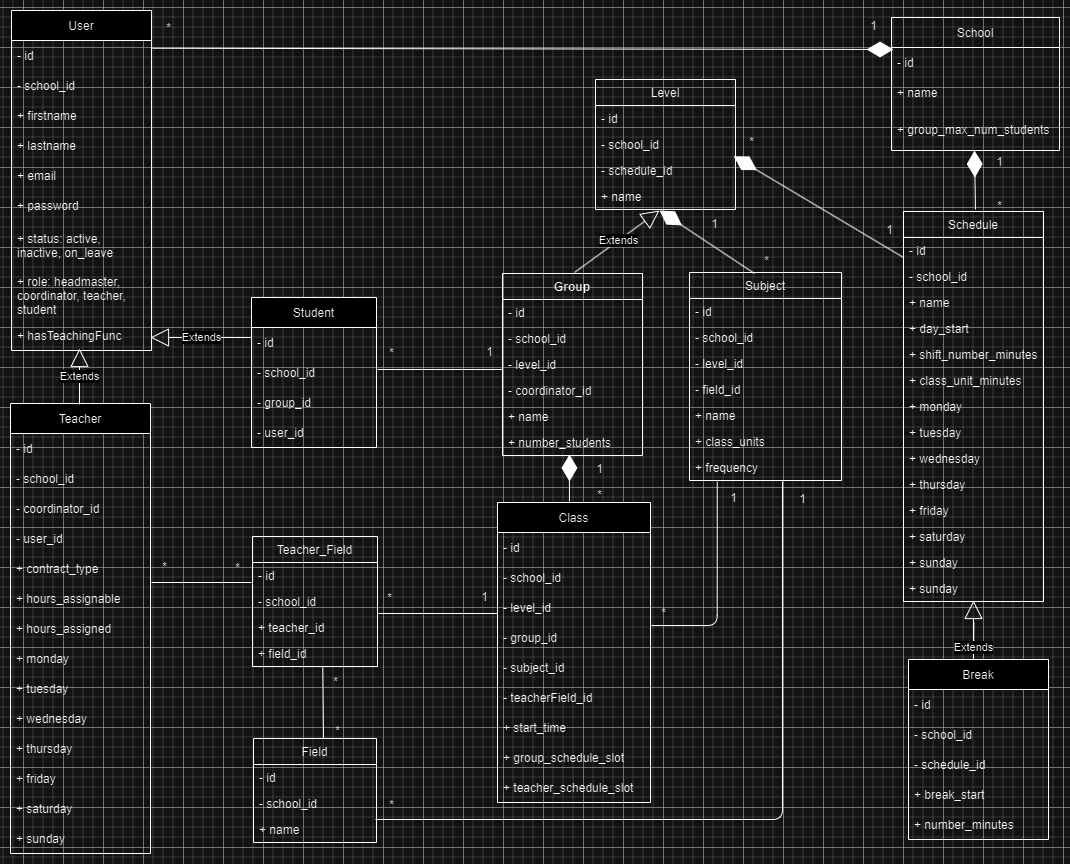
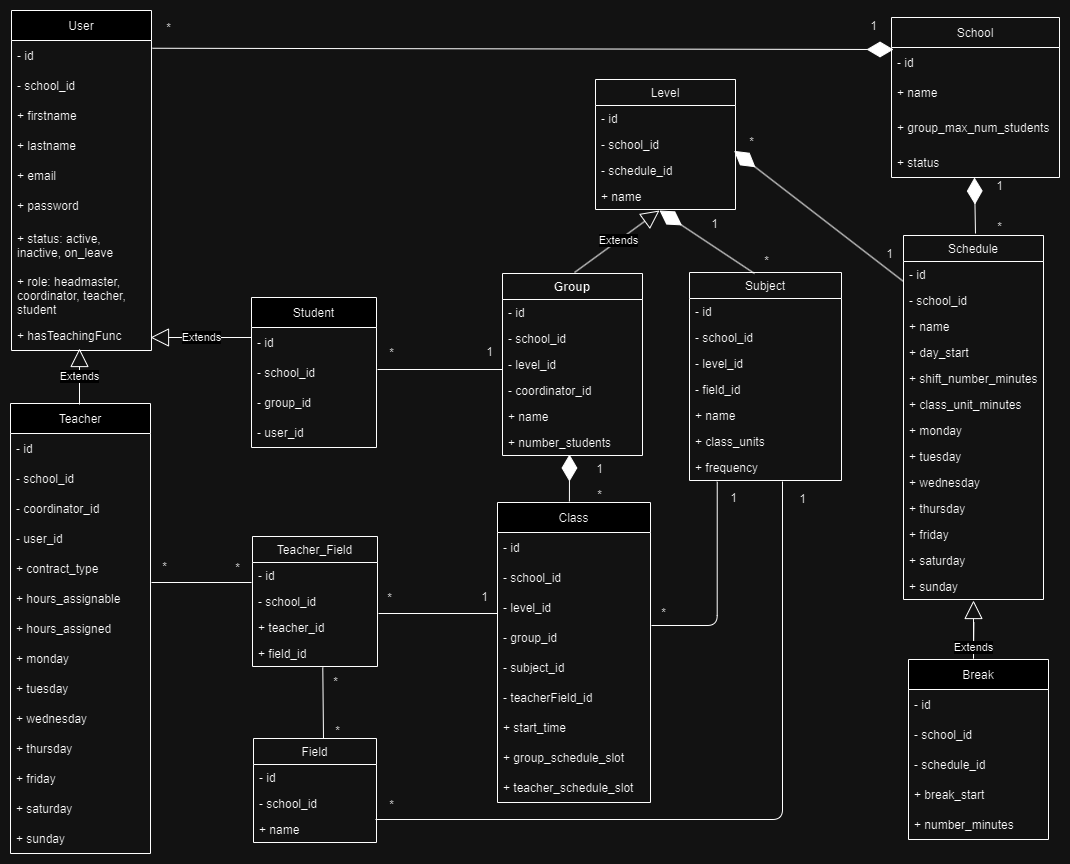
refactor: add status to school entity

diff --git a/src/modules/schools/__test__/school.test.ts b/src/modules/schools/__test__/school.test.ts
@@ -36,22 +36,27 @@ describe("RESOURCE => School", () => {
   const newSchool = {
     name: "school 001",
     groupMaxNumStudents: 40,
+    status: "active",
   };
   const newSchoolMissingValues = {
     nam: "school 001",
     groupMaxNumStudent: 40,
+    statu: "active",
   };
   const newSchoolEmptyValues = {
     name: "",
     groupMaxNumStudents: "",
+    status: "",
   };
   const newSchoolNotValidDataTypes = {
     name: 1234567890,
     groupMaxNumStudents: "hello",
+    status: 123456789,
   };
   const newSchoolWrongLengthValues = {
     name: "Lorem ipsum dolor sit amet consectetur adipisicing elit Maiores laborum aspernatur similique sequi am",
     groupMaxNumStudents: 1234567890,
+    status: "active",
   };
 
   /* payloads */
@@ -59,6 +64,7 @@ describe("RESOURCE => School", () => {
     _id: validMockSchoolId,
     name: "school 001",
     groupMaxNumStudents: 40,
+    status: "active",
   };
   const schoolNullPayload = null;
   const schoolsPayload = [
@@ -66,16 +72,19 @@ describe("RESOURCE => School", () => {
       _id: new Types.ObjectId().toString(),
       name: "school 001",
       groupMaxNumStudents: 40,
+      status: "active",
     },
     {
       _id: new Types.ObjectId().toString(),
       name: "school 002",
       groupMaxNumStudents: 40,
+      status: "active",
     },
     {
       _id: new Types.ObjectId().toString(),
       name: "school 003",
       groupMaxNumStudents: 40,
+      status: "inactive",
     },
   ];
   const schoolsNullPayload: School[] = [];
@@ -107,6 +116,11 @@ describe("RESOURCE => School", () => {
             location: "body",
             msg: "Please add the group max number of students",
             param: "groupMaxNumStudents",
+          },
+          {
+            location: "body",
+            msg: "Please add the school's current status",
+            param: "status",
           },
         ]);
 
@@ -148,6 +162,12 @@ describe("RESOURCE => School", () => {
             param: "groupMaxNumStudents",
             value: "",
           },
+          {
+            location: "body",
+            msg: "The status field is empty",
+            param: "status",
+            value: "",
+          },
         ]);
         expect(statusCode).toBe(400);
         expect(duplicateSchoolName).not.toHaveBeenCalled();
@@ -186,6 +206,12 @@ describe("RESOURCE => School", () => {
             msg: "group max number of students value is not valid",
             param: "groupMaxNumStudents",
             value: "hello",
+          },
+          {
+            location: "body",
+            msg: "status is not valid",
+            param: "status",
+            value: 123456789,
           },
         ]);
         expect(statusCode).toBe(400);
@@ -245,7 +271,7 @@ describe("RESOURCE => School", () => {
           schoolPayload,
           "findSchoolByProperty"
         );
-        const insertSchool = mockService(schoolPayload, "insertSchool");
+        const insertSchool = mockService(schoolNullPayload, "insertSchool");
 
         // api call
         const { statusCode, body } = await supertest(server)
@@ -362,16 +388,19 @@ describe("RESOURCE => School", () => {
               _id: expect.any(String),
               name: "school 001",
               groupMaxNumStudents: 40,
+              status: "active",
             },
             {
               _id: expect.any(String),
               name: "school 002",
               groupMaxNumStudents: 40,
+              status: "active",
             },
             {
               _id: expect.any(String),
               name: "school 003",
               groupMaxNumStudents: 40,
+              status: "inactive",
             },
           ]);
           expect(statusCode).toBe(200);
@@ -445,6 +474,7 @@ describe("RESOURCE => School", () => {
               _id: validMockSchoolId,
               name: "school 001",
               groupMaxNumStudents: 40,
+              status: "active",
             });
             expect(statusCode).toBe(200);
             expect(findSchool).toHaveBeenCalled();
@@ -483,6 +513,11 @@ describe("RESOURCE => School", () => {
               location: "body",
               msg: "Please add the group max number of students",
               param: "groupMaxNumStudents",
+            },
+            {
+              location: "body",
+              msg: "Please add the school's current status",
+              param: "status",
             },
           ]);
           expect(statusCode).toBe(400);
@@ -524,6 +559,12 @@ describe("RESOURCE => School", () => {
               location: "body",
               msg: "The group max number of students field is empty",
               param: "groupMaxNumStudents",
+              value: "",
+            },
+            {
+              location: "body",
+              msg: "The status field is empty",
+              param: "status",
               value: "",
             },
           ]);
@@ -573,6 +614,12 @@ describe("RESOURCE => School", () => {
               msg: "group max number of students value is not valid",
               param: "groupMaxNumStudents",
               value: "hello",
+            },
+            {
+              location: "body",
+              msg: "status is not valid",
+              param: "status",
+              value: 123456789,
             },
           ]);
           expect(statusCode).toBe(400);

diff --git a/src/modules/schools/schoolsController.ts b/src/modules/schools/schoolsController.ts
@@ -19,7 +19,7 @@ import {
 // @fields: body {name:[string], groupMaxNumStudents: [number]}
 const createSchool = async ({ body }: Request, res: Response) => {
   /* destructure the fields */
-  const { name, groupMaxNumStudents } = body;
+  const { name, groupMaxNumStudents, status } = body;
   /* find if the school name already exists */
   const searchCriteria = { name };
   const fieldsToReturn = "-createdAt -updatedAt";
@@ -34,6 +34,7 @@ const createSchool = async ({ body }: Request, res: Response) => {
   const newSchool = {
     name: name,
     groupMaxNumStudents: groupMaxNumStudents,
+    status: status,
   };
   const schoolCreated = await insertSchool(newSchool);
   if (!schoolCreated) {
@@ -79,7 +80,7 @@ const getSchool = async ({ params }: Request, res: Response) => {
 const updateSchool = async ({ body, params }: Request, res: Response) => {
   /* destructure the fields*/
   const { id: schoolId } = params;
-  const { name, groupMaxNumStudents } = body;
+  const { name, groupMaxNumStudents, status } = body;
   /* check if there is a name duplicate that belongs to someone else */
   const searchCriteria = { name: name };
   const fieldsToReturn = "-createdAt -updatedAt";
@@ -91,6 +92,7 @@ const updateSchool = async ({ body, params }: Request, res: Response) => {
   const newSchool = {
     name: name,
     groupMaxNumStudents: groupMaxNumStudents,
+    status: status,
   };
   const schoolUpdated = await modifySchool(schoolId, newSchool);
   if (!schoolUpdated) {

diff --git a/src/modules/schools/schoolsValidator.ts b/src/modules/schools/schoolsValidator.ts
@@ -31,6 +31,21 @@ const validateCreateSchool = [
     .bail()
     .isLength({ min: 1, max: 9 })
     .withMessage("The start time must not exceed 9 digits"),
+  check("status")
+    .exists()
+    .withMessage("Please add the school's current status")
+    .bail()
+    .notEmpty()
+    .withMessage("The status field is empty")
+    .bail()
+    .isString()
+    .withMessage("status is not valid")
+    .bail()
+    .isIn(["active", "inactive"])
+    .withMessage("the status provided is not a valid option")
+    .blacklist("%,$")
+    .trim()
+    .escape(),
   (req: Request, res: Response, next: NextFunction) => {
     validateResult(req, res, next);
   },
@@ -91,6 +106,21 @@ const validateUpdateSchool = [
     .bail()
     .isLength({ min: 1, max: 9 })
     .withMessage("The start time must not exceed 9 digits"),
+  check("status")
+    .exists()
+    .withMessage("Please add the school's current status")
+    .bail()
+    .notEmpty()
+    .withMessage("The status field is empty")
+    .bail()
+    .isString()
+    .withMessage("status is not valid")
+    .bail()
+    .isIn(["active", "inactive"])
+    .withMessage("the status provided is not a valid option")
+    .blacklist("%,$")
+    .trim()
+    .escape(),
   (req: Request, res: Response, next: NextFunction) => {
     validateResult(req, res, next);
   },

diff --git a/src/modules/schools/schoolModel.ts b/src/modules/schools/schoolModel.ts
@@ -12,6 +12,11 @@ const SchoolSchema = new Schema<School>(
       type: Number,
       required: [true, "must provide a group number of students"],
     },
+    status: {
+      type: String,
+      enum: ["active", "inactive"],
+      required: [true, "Please provide a status for the school"],
+    },
   },
   {
     timestamps: true,

diff --git a/src/typings/types.ts b/src/typings/types.ts
@@ -1,10 +1,12 @@
 import { Types } from "mongoose";
 
 // school
+export type SchoolStatus = "active" | "inactive";
 export type School = {
   _id: Types.ObjectId;
   name: string;
   groupMaxNumStudents: number;
+  status: School;
 };
 
 export type NewSchool = Omit<School, "_id">;
